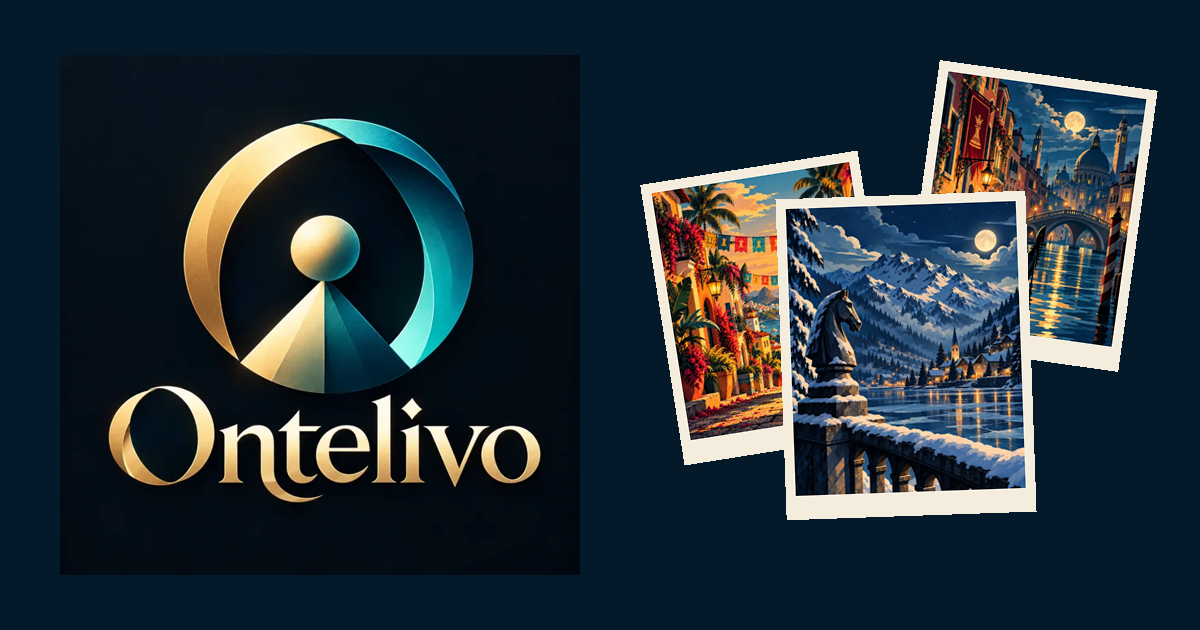
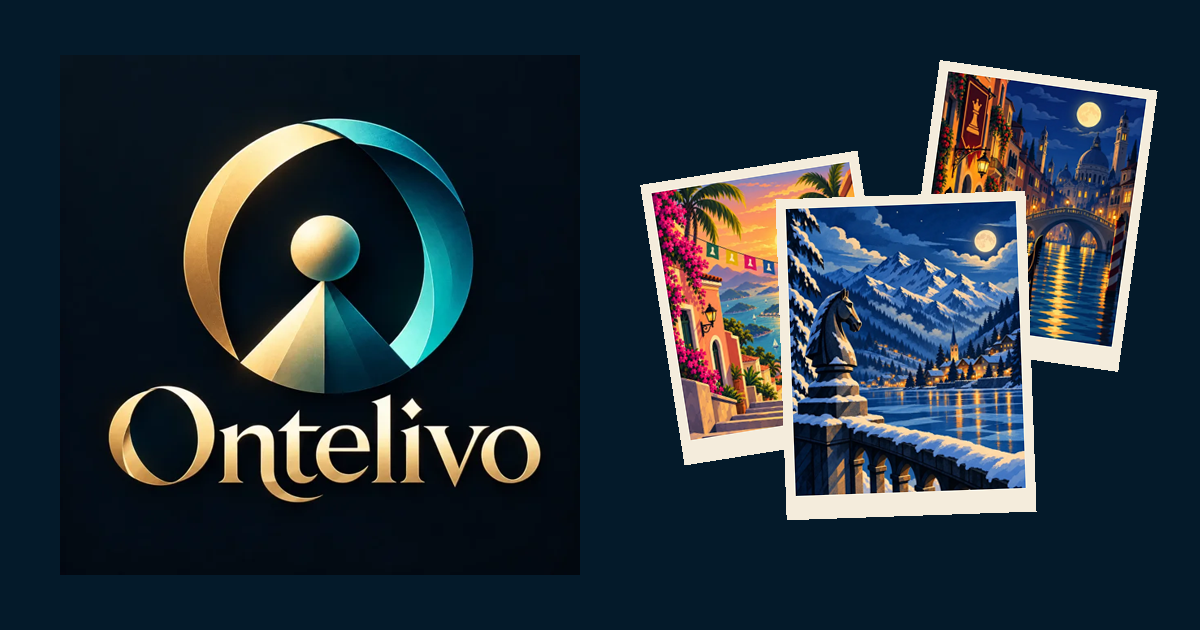
Match the site to the new covers and chapter names in the game
Use the new Alps, Rio and Venice covers from the game's staging branch,
show places instead of chapter names (which keep changing), and refresh
the social preview image and image descriptions.

Claude-Session: https://claude.ai/code/session_01KDRZ82XQoL7GW9D9Q5S1Ff

Changed region(s): [[0.5242, 0.1206, 0.9558, 0.7841]]

diff --git a/chess-abstract/index.html b/chess-abstract/index.html
@@ -48,7 +48,7 @@
   <figure class="phone" style="margin:0 auto">
     <div class="screen">
       <img src="/img/cover-ch1.webp" width="720" height="900" alt="The first chapter card in the game, set in the Swiss Alps, with a Start button" fetchpriority="high">
-      <div class="caption"><small>CHAPTER I</small><strong>WHITE SILENCE</strong><span class="go">START</span></div>
+      <div class="caption"><small>CHAPTER I</small><strong>SWISS ALPS</strong><span class="go">START</span></div>
     </div>
   </figure>
 </div></section>
@@ -58,12 +58,12 @@
   <h2 class="h-l" style="margin-top:14px;max-width:16em">Every chapter is a destination.</h2>
   <p class="lead" style="margin-top:16px">There is no story and no villain. The reward for playing is the trip itself. Chapters open one after another, and more places are on the way.</p>
   <div class="cards">
-    <figure class="postcard"><img src="/img/cover-ch1.webp" width="720" height="900" alt="A snow-covered stone knight above a frozen Alpine lake and a lit village" loading="lazy">
-      <figcaption class="meta"><span class="where">Swiss Alps</span><h3>White Silence</h3><span class="quote">The mountain remembers moves you forget.</span></figcaption></figure>
-    <figure class="postcard"><img src="/img/cover-ch3.webp" width="720" height="900" alt="A sunset street in Rio de Janeiro with bunting and bougainvillea" loading="lazy">
-      <figcaption class="meta"><span class="where">Rio de Janeiro</span><h3>Samba Sacrifice</h3><span class="quote">Lose the piece, keep the rhythm.</span></figcaption></figure>
+    <figure class="postcard"><img src="/img/cover-ch1.webp" width="720" height="900" alt="A snow-covered stone knight on a wall above a frozen Alpine lake and a lit village" loading="lazy">
+      <figcaption class="meta"><span class="where">Chapter I</span><h3>Swiss Alps</h3><span class="quote">The mountain remembers moves you forget.</span></figcaption></figure>
+    <figure class="postcard"><img src="/img/cover-ch3.webp" width="720" height="900" alt="A sunset view over the bay of Rio de Janeiro from a flight of steps, with bunting of chess pawns" loading="lazy">
+      <figcaption class="meta"><span class="where">Chapter II</span><h3>Rio de Janeiro</h3><span class="quote">Lose the piece, keep the rhythm.</span></figcaption></figure>
     <figure class="postcard"><img src="/img/cover-ch2.webp" width="720" height="900" alt="A Venice canal at night with a gondola, a bridge and a banner with a chess queen" loading="lazy">
-      <figcaption class="meta"><span class="where">Venice</span><h3>The Drowned Queen</h3><span class="quote">Some moves sink. The best ones surface.</span></figcaption></figure>
+      <figcaption class="meta"><span class="where">Chapter III</span><h3>Venice</h3><span class="quote">Some moves sink. The best ones surface.</span></figcaption></figure>
   </div>
 </div></section>
 

diff --git a/index.html b/index.html
@@ -50,9 +50,9 @@
   </div>
   <div class="collage" aria-hidden="false">
     <div class="collage-inner">
-      <figure class="polaroid p1"><img src="/img/cover-ch3.webp" width="720" height="900" alt="A sunset street in Rio de Janeiro hung with bunting and bougainvillea" loading="lazy"><figcaption>Rio de Janeiro</figcaption></figure>
-      <figure class="polaroid p2"><img src="/img/cover-ch2.webp" width="720" height="900" alt="A Venice canal at night with a gondola and a banner showing a chess queen" loading="lazy"><figcaption>Venice</figcaption></figure>
-      <figure class="polaroid p3"><img src="/img/cover-ch1.webp" width="720" height="900" alt="A snow-covered stone knight above a frozen Alpine lake" fetchpriority="high"><figcaption>The Swiss Alps</figcaption></figure>
+      <figure class="polaroid p1"><img src="/img/cover-ch3.webp" width="720" height="900" alt="A sunset view over the bay of Rio de Janeiro from a flight of steps, with pink bougainvillea and bunting printed with chess pawns" loading="lazy"><figcaption>Rio de Janeiro</figcaption></figure>
+      <figure class="polaroid p2"><img src="/img/cover-ch2.webp" width="720" height="900" alt="A Venice canal at night with a gondola, a stone bridge and a banner showing a chess queen" loading="lazy"><figcaption>Venice</figcaption></figure>
+      <figure class="polaroid p3"><img src="/img/cover-ch1.webp" width="720" height="900" alt="A snow-covered stone knight on a wall above a frozen Alpine lake, a lit village and mountains under a full moon" fetchpriority="high"><figcaption>The Swiss Alps</figcaption></figure>
     </div>
   </div>
 </div></section>
@@ -67,7 +67,7 @@
 </div></section>
 
 <section class="section"><div class="wrap"><div class="split">
-  <div class="media"><img src="/img/cover-ch1.webp" width="720" height="900" alt="A stone knight on a snowy wall overlooking a frozen lake and an Alpine village" loading="lazy"></div>
+  <div class="media"><img src="/img/cover-ch1.webp" width="720" height="900" alt="A stone knight on a snowy wall overlooking a frozen lake, an Alpine village and mountains under a full moon" loading="lazy"></div>
   <div class="text">
     <p class="eyebrow">What the game is about</p>
     <h2 class="h-l">Chess pieces. New rules. One good idea per level.</h2>
